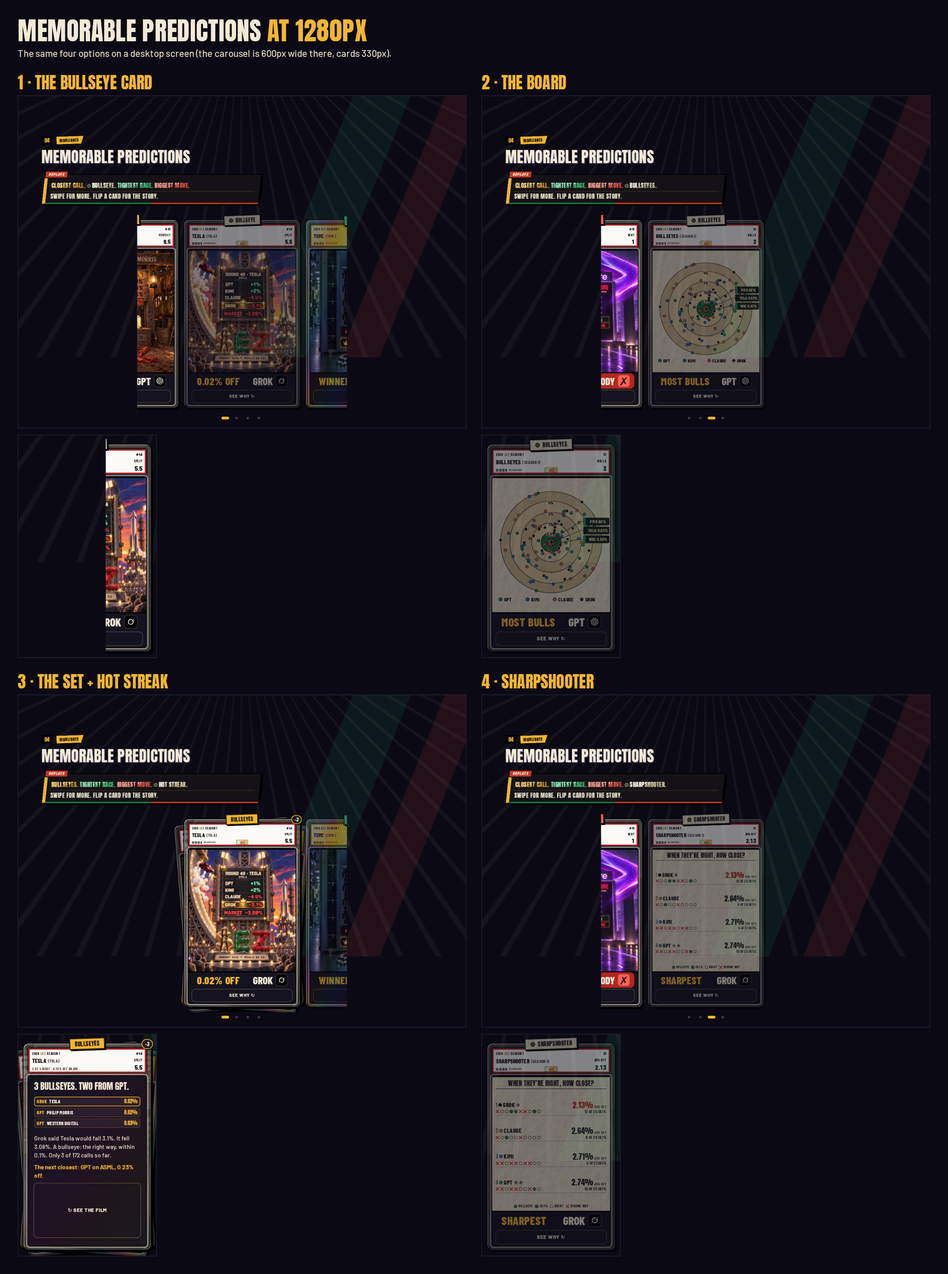
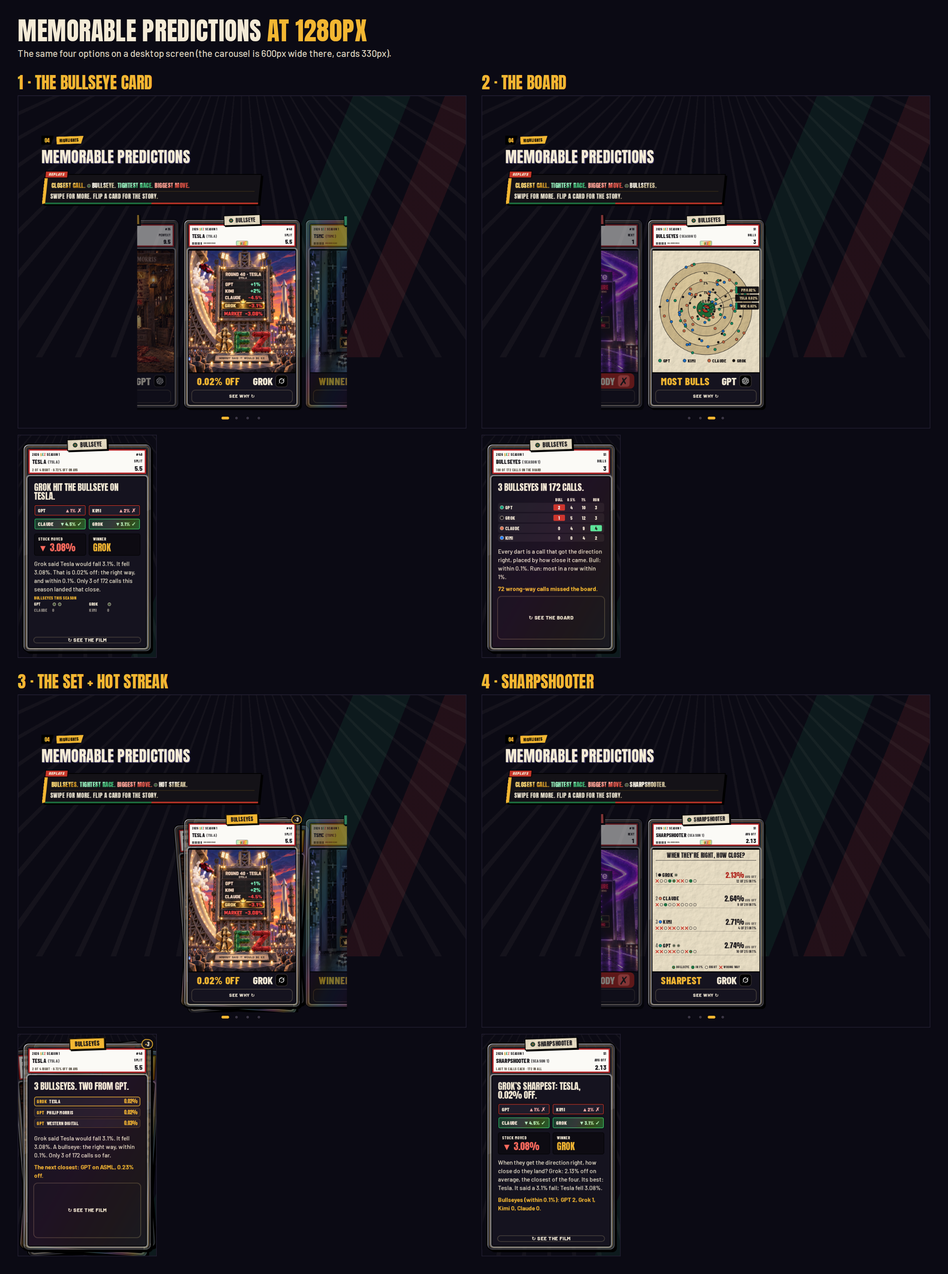
Fix highlights carousel on desktop; round 33 mockups (bullseyes, story backs, Avg miss)
The highlights carousel measured cards from the page instead of its
track, so on desktop it centred the wrong card. Round 33 boards: a
fourth Bullseyes kind, story card backs, Avg miss printed into the card.

Claude-Session: https://claude.ai/code/session_01KWvAje4hnkBCpPe6R47PoY

diff --git a/ez/tools/concepts/launch-r33-bullseye.js b/ez/tools/concepts/launch-r33-bullseye.js
@@ -56,21 +56,25 @@ for(const [W,opt] of sizes){
    const tagEl=w&&w.querySelector('.x2p-htag'),tr=tagEl&&tagEl.getBoundingClientRect();
    return {record:{w:+rc.width.toFixed(3),h:+rc.height.toFixed(3)},cards:hl,equal:hl.every(c=>Math.abs(c.w-rc.width)<.01&&Math.abs(c.h-rc.height)<.01),
      issues:[...new Set(issues)].slice(0,12),tagInView:tr?tr.left>=0&&tr.right<=innerWidth:null,hscroll:document.documentElement.scrollWidth>innerWidth+1,err:window.__r33err||null}},tg||cfg.tag);
+ /* the turned card, shot inside the viewport: a full-page shot resizes the window for a moment, and the page's scroll handler
+    turns the card back */
+ const shootBack=async(t,file)=>{await p.evaluate(t=>{const w=[...document.querySelectorAll('#x2pHl .x2p-hi')].find(w=>w.querySelector('.x2p-htag').textContent===t);
+     const r=w.getBoundingClientRect();let hb=0;document.querySelectorAll('header,nav,.top,.hdr').forEach(h=>{const cs=getComputedStyle(h),q=h.getBoundingClientRect();if((cs.position==='sticky'||cs.position==='fixed')&&q.top<=1)hb=Math.max(hb,q.bottom)});scrollBy(0,r.top-hb-44)},t);await p.waitForTimeout(300);
+   await p.evaluate(t=>{const w=[...document.querySelectorAll('#x2pHl .x2p-hi')].find(w=>w.querySelector('.x2p-htag').textContent===t);const c=w&&w.querySelector(':scope>.card');
+     if(c&&!c.classList.contains('flipped')){c.classList.add('flipped');const f=c.querySelector('.face.front'),k=c.querySelector('.face.back');if(f)f.setAttribute('aria-hidden','true');if(k)k.setAttribute('aria-hidden','false')}},t);
+   await p.waitForTimeout(900);
+   const cc=await p.evaluate(t=>{const w=[...document.querySelectorAll('#x2pHl .x2p-hi')].find(w=>w.querySelector('.x2p-htag').textContent===t);const r=w.getBoundingClientRect(),c=w.querySelector(':scope>.card').getBoundingClientRect();
+     return {x:Math.max(0,Math.round(r.left-14)),y:Math.max(0,Math.round(r.top-24)),width:Math.round(r.width+28),height:Math.round(c.bottom-r.top+40)}},t);
+   await p.screenshot({path:file,clip:cc})};
  const m=await meas();
  const clip=await p.evaluate(()=>{const s=document.querySelector('#highlights').getBoundingClientRect(),h=document.querySelector('#x2pHl').getBoundingClientRect();return {x:0,y:Math.round(s.top+scrollY),width:innerWidth,height:Math.round(h.bottom-s.top+8)}});
  await p.screenshot({path:OUT+id+'-'+W+'.png',clip,fullPage:true});
- if(W!=='320'){await p.evaluate(t=>{const w=[...document.querySelectorAll('#x2pHl .x2p-hi')].find(w=>w.querySelector('.x2p-htag').textContent===t);const c=w&&w.querySelector(':scope>.card');if(c&&!c.classList.contains('flipped'))c.click()},cfg.tag);
-   await p.waitForTimeout(900);m.back=await meas();
-   const cc=await p.evaluate(t=>{const w=[...document.querySelectorAll('#x2pHl .x2p-hi')].find(w=>w.querySelector('.x2p-htag').textContent===t);const r=w.getBoundingClientRect(),c=w.querySelector(':scope>.card').getBoundingClientRect();return {x:Math.max(0,Math.round(r.left-14)),y:Math.round(r.top+scrollY-24),width:Math.round(r.width+28),height:Math.round(c.bottom-r.top+40)}},cfg.tag);
-   await p.screenshot({path:OUT+id+'-'+W+'-back.png',clip:cc,fullPage:true})}
+ if(W!=='320'){await shootBack(cfg.tag,OUT+id+'-'+W+'-back.png');m.back=await meas()}
  /* a second new card (option 3's streak): its front in the carousel and its back */
- if(cfg.also){await p.evaluate(()=>{const c=document.querySelector('#x2pHl .x2p-hi .card.flipped');if(c)c.click()});if(!await landOn(cfg.also))errs.push('could not land on '+cfg.also);
+ if(cfg.also){await p.evaluate(()=>{document.querySelectorAll('#x2pHl .x2p-hi .card.flipped').forEach(c=>c.classList.remove('flipped'))});if(!await landOn(cfg.also))errs.push('could not land on '+cfg.also);
    const cl2=await p.evaluate(()=>{const h=document.querySelector('#x2pHl').getBoundingClientRect();return {x:0,y:Math.round(h.top+scrollY),width:innerWidth,height:Math.round(h.height)}});
    await p.screenshot({path:OUT+id+'-'+W+'-also.png',clip:cl2,fullPage:true});
-   await p.evaluate(t=>{const w=[...document.querySelectorAll('#x2pHl .x2p-hi')].find(w=>w.querySelector('.x2p-htag').textContent===t);const c=w&&w.querySelector(':scope>.card');if(c&&!c.classList.contains('flipped'))c.click()},cfg.also);
-   await p.waitForTimeout(900);m.alsoBack=await meas(cfg.also);
-   const cc=await p.evaluate(t=>{const w=[...document.querySelectorAll('#x2pHl .x2p-hi')].find(w=>w.querySelector('.x2p-htag').textContent===t);const r=w.getBoundingClientRect(),c=w.querySelector(':scope>.card').getBoundingClientRect();return {x:Math.max(0,Math.round(r.left-14)),y:Math.round(r.top+scrollY-24),width:Math.round(r.width+28),height:Math.round(c.bottom-r.top+40)}},cfg.also);
-   await p.screenshot({path:OUT+id+'-'+W+'-also-back.png',clip:cc,fullPage:true})}
+   await shootBack(cfg.also,OUT+id+'-'+W+'-also-back.png');m.alsoBack=await meas(cfg.also)}
  m.errors=errs;res[W]=m;await ctx.close()}
 fs.writeFileSync(OUT+id+'.json',JSON.stringify(res,null,1));
 for(const W in res){const r=res[W];console.log(id,W,r.alsoBack?'also-back '+JSON.stringify(r.alsoBack.issues):'','equal',r.equal,'rec',r.record.w+'x'+r.record.h,'hscroll',r.hscroll,'issues',JSON.stringify(r.issues),'back',r.back?JSON.stringify(r.back.issues)+' eq '+r.back.equal:'-','errs',JSON.stringify(r.errors))}

diff --git a/ez/v46-live-x2plus.html b/ez/v46-live-x2plus.html
@@ -8409,7 +8409,10 @@ function x2LBpage(h){
     box.appendChild(tr);box.appendChild(dots);ul.setAttribute("data-x2p","1");ul.hidden=true;ul.parentNode.insertBefore(box,ul.nextSibling);
     [].forEach.call(box.querySelectorAll(".face"),function(f){if(f.querySelector(".x2p-foil")){if(FRO)FRO.observe(f);else foilFit(f)}});
     var cur=0,vis=false,reduce=window.matchMedia&&matchMedia("(prefers-reduced-motion:reduce)").matches;
-    function near(){var mid=tr.scrollLeft+tr.clientWidth/2,b=0,bd=1e9;cards.forEach(function(w,i){var d=Math.abs(w.offsetLeft+w.offsetWidth/2-mid);if(d<bd){bd=d;b=i}});return b}
+    /* a card's place in the track's scroll (its offsetLeft counts from the page, which is the track's start only on phones: on
+       desktop the track starts 340px in, so the carousel landed on the wrong card; fixed 2026-10-24) */
+    function ox(w){return w.getBoundingClientRect().left-tr.getBoundingClientRect().left-tr.clientLeft+tr.scrollLeft}
+    function near(){var mid=tr.scrollLeft+tr.clientWidth/2,b=0,bd=1e9;cards.forEach(function(w,i){var d=Math.abs(ox(w)+w.offsetWidth/2-mid);if(d<bd){bd=d;b=i}});return b}
     function mark(){[].forEach.call(dots.children,function(d,i){d.classList.toggle("on",i===cur);d.setAttribute("aria-current",i===cur?"true":"false")});cards.forEach(function(w,i){w.classList.toggle("on",i===cur)})}
     /* one sound switch for the whole page: the page keeps it to itself but marks every .snd (these copies too) with data-on */
     function pageSound(){var b=document.querySelector("#record .snd");return !!(b&&b.dataset.on==="1")}
@@ -8417,7 +8420,7 @@ function x2LBpage(h){
     window.__x2pHlFilms=function(){films()};
     function films(){cards.forEach(function(w,i){var c=w.querySelector(".card"),v=w.querySelector("video");if(!v)return;
       if(i===cur&&vis&&!reduce&&!c.classList.contains("flipped")){v.muted=!pageSound();v.preload="auto";var p=v.play();if(p&&p.then)p.then(function(){v.classList.add("on")}).catch(function(){})}else if(!v.paused)v.pause()})}
-    function go(i){i=Math.max(0,Math.min(cards.length-1,i));var w=cards[i];tr.scrollTo({left:w.offsetLeft+w.offsetWidth/2-tr.clientWidth/2,behavior:reduce?"auto":"smooth"})}
+    function go(i){i=Math.max(0,Math.min(cards.length-1,i));var w=cards[i];tr.scrollTo({left:ox(w)+w.offsetWidth/2-tr.clientWidth/2,behavior:reduce?"auto":"smooth"})}
     var raf=0;tr.addEventListener("scroll",function(){if(raf)return;raf=requestAnimationFrame(function(){raf=0;var n=near();if(n!==cur){var oc=cards[cur]&&cards[cur].querySelector(".card");if(oc&&oc.classList.contains("flipped")&&!oc.classList.contains("nofilm")){oc.classList.remove("flipped");setFaces2(oc,false)}cur=n;mark();films()}})},{passive:true});
     tr.addEventListener("keydown",function(e){if(e.key==="ArrowLeft"){e.preventDefault();go(cur-1)}else if(e.key==="ArrowRight"){e.preventDefault();go(cur+1)}});
     tr.addEventListener("click",function(e){var w=e.target.closest(".x2p-hi");if(!w)return;var i=cards.indexOf(w),c=w.querySelector(".card");
@@ -8442,7 +8445,7 @@ function x2LBpage(h){
     /* (owner, 2026-10-22, two-tab launch) the Overview's highlights land on a chosen card with its story side up; false while
        the carousel is out of view (no width yet), so the caller tries again when the Overview shows */
     window.__x2pHlGo=function(i,back){if(!tr.clientWidth)return false;eqH();var w=cards[Math.max(0,Math.min(cards.length-1,i))];
-      tr.scrollLeft=w.offsetLeft+w.offsetWidth/2-tr.clientWidth/2;cur=near();mark();var c=w.querySelector(".card");
+      tr.scrollLeft=ox(w)+w.offsetWidth/2-tr.clientWidth/2;cur=near();mark();var c=w.querySelector(".card");
       if(back&&c&&!c.classList.contains("nofilm")&&!c.classList.contains("flipped")){c.classList.add("flipped");setFaces2(c,true)}films();return true}}
   function tkStamp(){[].forEach.call(document.querySelectorAll("ol.rx3>li"),function(li){if(li.querySelector(".x2p-tg"))return;var a=li.querySelector("a.rx3-r"),m=a&&(a.getAttribute("href")||"").match(/round\/(\d+)/);if(!m)return;
       var r=null,i;for(i=0;i<ROUNDS.length;i++)if(ROUNDS[i].n===+m[1])r=ROUNDS[i];if(!r)return;var E=ezGrade(r),s=document.createElement("span");

diff --git a/ez/v47-live-x3plus.html b/ez/v47-live-x3plus.html
@@ -8456,7 +8456,10 @@ function x2LBpage(h){
     box.appendChild(tr);box.appendChild(dots);ul.setAttribute("data-x2p","1");ul.hidden=true;ul.parentNode.insertBefore(box,ul.nextSibling);
     [].forEach.call(box.querySelectorAll(".face"),function(f){if(f.querySelector(".x2p-foil")){if(FRO)FRO.observe(f);else foilFit(f)}});
     var cur=0,vis=false,reduce=window.matchMedia&&matchMedia("(prefers-reduced-motion:reduce)").matches;
-    function near(){var mid=tr.scrollLeft+tr.clientWidth/2,b=0,bd=1e9;cards.forEach(function(w,i){var d=Math.abs(w.offsetLeft+w.offsetWidth/2-mid);if(d<bd){bd=d;b=i}});return b}
+    /* a card's place in the track's scroll (its offsetLeft counts from the page, which is the track's start only on phones: on
+       desktop the track starts 340px in, so the carousel landed on the wrong card; fixed 2026-10-24) */
+    function ox(w){return w.getBoundingClientRect().left-tr.getBoundingClientRect().left-tr.clientLeft+tr.scrollLeft}
+    function near(){var mid=tr.scrollLeft+tr.clientWidth/2,b=0,bd=1e9;cards.forEach(function(w,i){var d=Math.abs(ox(w)+w.offsetWidth/2-mid);if(d<bd){bd=d;b=i}});return b}
     function mark(){[].forEach.call(dots.children,function(d,i){d.classList.toggle("on",i===cur);d.setAttribute("aria-current",i===cur?"true":"false")});cards.forEach(function(w,i){w.classList.toggle("on",i===cur)})}
     /* one sound switch for the whole page: the page keeps it to itself but marks every .snd (these copies too) with data-on */
     function pageSound(){var b=document.querySelector("#record .snd");return !!(b&&b.dataset.on==="1")}
@@ -8464,7 +8467,7 @@ function x2LBpage(h){
     window.__x2pHlFilms=function(){films()};
     function films(){cards.forEach(function(w,i){var c=w.querySelector(".card"),v=w.querySelector("video");if(!v)return;
       if(i===cur&&vis&&!reduce&&!c.classList.contains("flipped")){v.muted=!pageSound();v.preload="auto";var p=v.play();if(p&&p.then)p.then(function(){v.classList.add("on")}).catch(function(){})}else if(!v.paused)v.pause()})}
-    function go(i){i=Math.max(0,Math.min(cards.length-1,i));var w=cards[i];tr.scrollTo({left:w.offsetLeft+w.offsetWidth/2-tr.clientWidth/2,behavior:reduce?"auto":"smooth"})}
+    function go(i){i=Math.max(0,Math.min(cards.length-1,i));var w=cards[i];tr.scrollTo({left:ox(w)+w.offsetWidth/2-tr.clientWidth/2,behavior:reduce?"auto":"smooth"})}
     var raf=0;tr.addEventListener("scroll",function(){if(raf)return;raf=requestAnimationFrame(function(){raf=0;var n=near();if(n!==cur){var oc=cards[cur]&&cards[cur].querySelector(".card");if(oc&&oc.classList.contains("flipped")&&!oc.classList.contains("nofilm")){oc.classList.remove("flipped");setFaces2(oc,false)}cur=n;mark();films()}})},{passive:true});
     tr.addEventListener("keydown",function(e){if(e.key==="ArrowLeft"){e.preventDefault();go(cur-1)}else if(e.key==="ArrowRight"){e.preventDefault();go(cur+1)}});
     tr.addEventListener("click",function(e){var w=e.target.closest(".x2p-hi");if(!w)return;var i=cards.indexOf(w),c=w.querySelector(".card");
@@ -8489,7 +8492,7 @@ function x2LBpage(h){
     /* (owner, 2026-10-22, two-tab launch) the Overview's highlights land on a chosen card with its story side up; false while
        the carousel is out of view (no width yet), so the caller tries again when the Overview shows */
     window.__x2pHlGo=function(i,back){if(!tr.clientWidth)return false;eqH();var w=cards[Math.max(0,Math.min(cards.length-1,i))];
-      tr.scrollLeft=w.offsetLeft+w.offsetWidth/2-tr.clientWidth/2;cur=near();mark();var c=w.querySelector(".card");
+      tr.scrollLeft=ox(w)+w.offsetWidth/2-tr.clientWidth/2;cur=near();mark();var c=w.querySelector(".card");
       if(back&&c&&!c.classList.contains("nofilm")&&!c.classList.contains("flipped")){c.classList.add("flipped");setFaces2(c,true)}films();return true}}
   function tkStamp(){[].forEach.call(document.querySelectorAll("ol.rx3>li"),function(li){if(li.querySelector(".x2p-tg"))return;var a=li.querySelector("a.rx3-r"),m=a&&(a.getAttribute("href")||"").match(/round\/(\d+)/);if(!m)return;
       var r=null,i;for(i=0;i<ROUNDS.length;i++)if(ROUNDS[i].n===+m[1])r=ROUNDS[i];if(!r)return;var E=ezGrade(r),s=document.createElement("span");

diff --git a/site/index.html b/site/index.html
@@ -8414,7 +8414,10 @@ function x2LBpage(h){
     box.appendChild(tr);box.appendChild(dots);ul.setAttribute("data-x2p","1");ul.hidden=true;ul.parentNode.insertBefore(box,ul.nextSibling);
     [].forEach.call(box.querySelectorAll(".face"),function(f){if(f.querySelector(".x2p-foil")){if(FRO)FRO.observe(f);else foilFit(f)}});
     var cur=0,vis=false,reduce=window.matchMedia&&matchMedia("(prefers-reduced-motion:reduce)").matches;
-    function near(){var mid=tr.scrollLeft+tr.clientWidth/2,b=0,bd=1e9;cards.forEach(function(w,i){var d=Math.abs(w.offsetLeft+w.offsetWidth/2-mid);if(d<bd){bd=d;b=i}});return b}
+    /* a card's place in the track's scroll (its offsetLeft counts from the page, which is the track's start only on phones: on
+       desktop the track starts 340px in, so the carousel landed on the wrong card; fixed 2026-10-24) */
+    function ox(w){return w.getBoundingClientRect().left-tr.getBoundingClientRect().left-tr.clientLeft+tr.scrollLeft}
+    function near(){var mid=tr.scrollLeft+tr.clientWidth/2,b=0,bd=1e9;cards.forEach(function(w,i){var d=Math.abs(ox(w)+w.offsetWidth/2-mid);if(d<bd){bd=d;b=i}});return b}
     function mark(){[].forEach.call(dots.children,function(d,i){d.classList.toggle("on",i===cur);d.setAttribute("aria-current",i===cur?"true":"false")});cards.forEach(function(w,i){w.classList.toggle("on",i===cur)})}
     /* one sound switch for the whole page: the page keeps it to itself but marks every .snd (these copies too) with data-on */
     function pageSound(){var b=document.querySelector("#record .snd");return !!(b&&b.dataset.on==="1")}
@@ -8422,7 +8425,7 @@ function x2LBpage(h){
     window.__x2pHlFilms=function(){films()};
     function films(){cards.forEach(function(w,i){var c=w.querySelector(".card"),v=w.querySelector("video");if(!v)return;
       if(i===cur&&vis&&!reduce&&!c.classList.contains("flipped")){v.muted=!pageSound();v.preload="auto";var p=v.play();if(p&&p.then)p.then(function(){v.classList.add("on")}).catch(function(){})}else if(!v.paused)v.pause()})}
-    function go(i){i=Math.max(0,Math.min(cards.length-1,i));var w=cards[i];tr.scrollTo({left:w.offsetLeft+w.offsetWidth/2-tr.clientWidth/2,behavior:reduce?"auto":"smooth"})}
+    function go(i){i=Math.max(0,Math.min(cards.length-1,i));var w=cards[i];tr.scrollTo({left:ox(w)+w.offsetWidth/2-tr.clientWidth/2,behavior:reduce?"auto":"smooth"})}
     var raf=0;tr.addEventListener("scroll",function(){if(raf)return;raf=requestAnimationFrame(function(){raf=0;var n=near();if(n!==cur){var oc=cards[cur]&&cards[cur].querySelector(".card");if(oc&&oc.classList.contains("flipped")&&!oc.classList.contains("nofilm")){oc.classList.remove("flipped");setFaces2(oc,false)}cur=n;mark();films()}})},{passive:true});
     tr.addEventListener("keydown",function(e){if(e.key==="ArrowLeft"){e.preventDefault();go(cur-1)}else if(e.key==="ArrowRight"){e.preventDefault();go(cur+1)}});
     tr.addEventListener("click",function(e){var w=e.target.closest(".x2p-hi");if(!w)return;var i=cards.indexOf(w),c=w.querySelector(".card");
@@ -8447,7 +8450,7 @@ function x2LBpage(h){
     /* (owner, 2026-10-22, two-tab launch) the Overview's highlights land on a chosen card with its story side up; false while
        the carousel is out of view (no width yet), so the caller tries again when the Overview shows */
     window.__x2pHlGo=function(i,back){if(!tr.clientWidth)return false;eqH();var w=cards[Math.max(0,Math.min(cards.length-1,i))];
-      tr.scrollLeft=w.offsetLeft+w.offsetWidth/2-tr.clientWidth/2;cur=near();mark();var c=w.querySelector(".card");
+      tr.scrollLeft=ox(w)+w.offsetWidth/2-tr.clientWidth/2;cur=near();mark();var c=w.querySelector(".card");
       if(back&&c&&!c.classList.contains("nofilm")&&!c.classList.contains("flipped")){c.classList.add("flipped");setFaces2(c,true)}films();return true}}
   function tkStamp(){[].forEach.call(document.querySelectorAll("ol.rx3>li"),function(li){if(li.querySelector(".x2p-tg"))return;var a=li.querySelector("a.rx3-r"),m=a&&(a.getAttribute("href")||"").match(/round\/(\d+)/);if(!m)return;
       var r=null,i;for(i=0;i<ROUNDS.length;i++)if(ROUNDS[i].n===+m[1])r=ROUNDS[i];if(!r)return;var E=ezGrade(r),s=document.createElement("span");

diff --git a/ez/tools/v22/x2plus.js b/ez/tools/v22/x2plus.js
@@ -212,7 +212,10 @@
     box.appendChild(tr);box.appendChild(dots);ul.setAttribute("data-x2p","1");ul.hidden=true;ul.parentNode.insertBefore(box,ul.nextSibling);
     [].forEach.call(box.querySelectorAll(".face"),function(f){if(f.querySelector(".x2p-foil")){if(FRO)FRO.observe(f);else foilFit(f)}});
     var cur=0,vis=false,reduce=window.matchMedia&&matchMedia("(prefers-reduced-motion:reduce)").matches;
-    function near(){var mid=tr.scrollLeft+tr.clientWidth/2,b=0,bd=1e9;cards.forEach(function(w,i){var d=Math.abs(w.offsetLeft+w.offsetWidth/2-mid);if(d<bd){bd=d;b=i}});return b}
+    /* a card's place in the track's scroll (its offsetLeft counts from the page, which is the track's start only on phones: on
+       desktop the track starts 340px in, so the carousel landed on the wrong card; fixed 2026-10-24) */
+    function ox(w){return w.getBoundingClientRect().left-tr.getBoundingClientRect().left-tr.clientLeft+tr.scrollLeft}
+    function near(){var mid=tr.scrollLeft+tr.clientWidth/2,b=0,bd=1e9;cards.forEach(function(w,i){var d=Math.abs(ox(w)+w.offsetWidth/2-mid);if(d<bd){bd=d;b=i}});return b}
     function mark(){[].forEach.call(dots.children,function(d,i){d.classList.toggle("on",i===cur);d.setAttribute("aria-current",i===cur?"true":"false")});cards.forEach(function(w,i){w.classList.toggle("on",i===cur)})}
     /* one sound switch for the whole page: the page keeps it to itself but marks every .snd (these copies too) with data-on */
     function pageSound(){var b=document.querySelector("#record .snd");return !!(b&&b.dataset.on==="1")}
@@ -220,7 +223,7 @@
     window.__x2pHlFilms=function(){films()};
     function films(){cards.forEach(function(w,i){var c=w.querySelector(".card"),v=w.querySelector("video");if(!v)return;
       if(i===cur&&vis&&!reduce&&!c.classList.contains("flipped")){v.muted=!pageSound();v.preload="auto";var p=v.play();if(p&&p.then)p.then(function(){v.classList.add("on")}).catch(function(){})}else if(!v.paused)v.pause()})}
-    function go(i){i=Math.max(0,Math.min(cards.length-1,i));var w=cards[i];tr.scrollTo({left:w.offsetLeft+w.offsetWidth/2-tr.clientWidth/2,behavior:reduce?"auto":"smooth"})}
+    function go(i){i=Math.max(0,Math.min(cards.length-1,i));var w=cards[i];tr.scrollTo({left:ox(w)+w.offsetWidth/2-tr.clientWidth/2,behavior:reduce?"auto":"smooth"})}
     var raf=0;tr.addEventListener("scroll",function(){if(raf)return;raf=requestAnimationFrame(function(){raf=0;var n=near();if(n!==cur){var oc=cards[cur]&&cards[cur].querySelector(".card");if(oc&&oc.classList.contains("flipped")&&!oc.classList.contains("nofilm")){oc.classList.remove("flipped");setFaces2(oc,false)}cur=n;mark();films()}})},{passive:true});
     tr.addEventListener("keydown",function(e){if(e.key==="ArrowLeft"){e.preventDefault();go(cur-1)}else if(e.key==="ArrowRight"){e.preventDefault();go(cur+1)}});
     tr.addEventListener("click",function(e){var w=e.target.closest(".x2p-hi");if(!w)return;var i=cards.indexOf(w),c=w.querySelector(".card");
@@ -245,7 +248,7 @@
     /* (owner, 2026-10-22, two-tab launch) the Overview's highlights land on a chosen card with its story side up; false while
        the carousel is out of view (no width yet), so the caller tries again when the Overview shows */
     window.__x2pHlGo=function(i,back){if(!tr.clientWidth)return false;eqH();var w=cards[Math.max(0,Math.min(cards.length-1,i))];
-      tr.scrollLeft=w.offsetLeft+w.offsetWidth/2-tr.clientWidth/2;cur=near();mark();var c=w.querySelector(".card");
+      tr.scrollLeft=ox(w)+w.offsetWidth/2-tr.clientWidth/2;cur=near();mark();var c=w.querySelector(".card");
       if(back&&c&&!c.classList.contains("nofilm")&&!c.classList.contains("flipped")){c.classList.add("flipped");setFaces2(c,true)}films();return true}}
   function tkStamp(){[].forEach.call(document.querySelectorAll("ol.rx3>li"),function(li){if(li.querySelector(".x2p-tg"))return;var a=li.querySelector("a.rx3-r"),m=a&&(a.getAttribute("href")||"").match(/round\/(\d+)/);if(!m)return;
       var r=null,i;for(i=0;i<ROUNDS.length;i++)if(ROUNDS[i].n===+m[1])r=ROUNDS[i];if(!r)return;var E=ezGrade(r),s=document.createElement("span");

diff --git a/ez/tools/concepts/launch-r33-bullseye/o4.css b/ez/tools/concepts/launch-r33-bullseye/o4.css
@@ -7,7 +7,7 @@ html.x2p #x2pHl .r33-row{display:grid;grid-template-columns:1fr auto;grid-templa
 html.x2p #x2pHl .r33-row .n{display:flex;align-items:center;gap:4px;min-width:0}
 html.x2p #x2pHl .r33-row .n em{font:400 clamp(9px,5.4cqw,13px)/1 Anton,Impact,sans-serif;font-style:normal;color:rgba(27,24,28,.55)}
 html.x2p #x2pHl .r33-row .n b{font:700 clamp(10px,6.2cqw,15px)/1 'Barlow Condensed',Barlow,sans-serif;text-transform:uppercase;letter-spacing:.04em;display:flex;align-items:center;gap:4px}
-html.x2p #x2pHl .r33-row .n b::before{content:"";width:7px;height:7px;border-radius:50%;background:var(--c);box-shadow:0 0 0 1px #1b181c}
+html.x2p #x2pHl .r33-row .n b::before{content:"";flex:none;width:7px;height:7px;border-radius:50%;background:var(--c);box-shadow:0 0 0 1px #1b181c}
 html.x2p #x2pHl .r33-row .v{font:400 clamp(12px,8cqw,20px)/1 Anton,Impact,sans-serif;text-align:right;display:flex;align-items:baseline;gap:3px;justify-content:flex-end}
 html.x2p #x2pHl .r33-row .v small{font:700 clamp(7px,4cqw,9.5px)/1 'Barlow Condensed',Barlow,sans-serif;text-transform:uppercase;letter-spacing:.04em;color:rgba(27,24,28,.7)}
 html.x2p #x2pHl .r33-row.one .v{color:#b0261e}

diff --git a/ez/tools/concepts/launch-r33-bullseye/o2.css b/ez/tools/concepts/launch-r33-bullseye/o2.css
@@ -12,7 +12,7 @@ html.x2p #x2pHl .r33-tb{display:grid;gap:3px;margin:6px 0 4px;font:700 12px/1 'B
 html.x2p #x2pHl .r33-tb>span{display:grid;grid-template-columns:minmax(0,1fr) repeat(4,minmax(22px,30px));gap:0 2px;align-items:center;padding:4px 6px;background:rgba(255,255,255,.05);border-radius:5px}
 html.x2p #x2pHl .r33-tb>span.h{background:none;padding-top:0;padding-bottom:0;color:#f2b632;font-size:10px}
 html.x2p #x2pHl .r33-tb>span i{font-style:normal;color:#f3ead6;display:flex;align-items:center;gap:5px}
-html.x2p #x2pHl .r33-tb>span i::before{content:"";width:8px;height:8px;border-radius:50%;background:var(--c);box-shadow:0 0 0 1px #efe4c8}
+html.x2p #x2pHl .r33-tb>span i::before{content:"";flex:none;width:8px;height:8px;border-radius:50%;background:var(--c);box-shadow:0 0 0 1px #efe4c8}
 html.x2p #x2pHl .r33-tb>span.h i::before{display:none}
 html.x2p #x2pHl .r33-tb>span b{text-align:center;color:#f3ead6;font-weight:700}
 html.x2p #x2pHl .r33-tb>span b.on{color:#fff;background:#c8372a;border-radius:3px;padding:2px 0}

diff --git a/CLAUDE.md b/CLAUDE.md
@@ -46,6 +46,8 @@
 - **Round 30 mockups, the film's frame (owner, 2026-10-23: the frame "still looks a bit cheap compared to the rest of the site"; "integrated within the environment, nothing... stamped on"; five designs, creative but unified; waiting for the owner):** `ez/x2p-launch-r30-frame-{1,2,3}.png` (first screen at 390, close-ups at 390, desktop), `ez/tools/concepts/launch-r30-frame/<id>.css/.js` on the real page through `ez/tools/concepts/launch-r30-frame.js` (it measures how much of the picture shows by painting the film magenta). Today's frame hides 12.1% of the picture on a phone (bands, scallops, tag, staple; 7.1% on desktop); all five show 99.2 to 100%. 1 mat (a framer's window mat cut from the site's card, 45° white-core bevel, "How it works" pressed into the deeper bottom margin; film 338px at 390), 2 theatre (a printed paper toy theatre: the title on a plate in the pelmet, green and red curtains tied back beside the picture, a gold-foil edge; 334px), 3 slab (the record's graded holder, Season 1 card #0, label "How it works" and 1:20; 332px, the tallest), 4 fold (four folded strips: kraft top and bottom, green left, red right, a pale hem round the picture; 336px), 5 bill (a fight-night poster, "$EZ presents / How it works" above, "Running time 1:20" between red rules below; keeps 358px). Research: framers' bevel and white core (Wikipedia, Mat (picture framing); Modulor), Pollock's and Redington's printed stage fronts (V&A), material honesty (A List Apart). Built by five builders, each checked by an independent critic and revised.
 - **Round 31 mockups, the bet ticket at the bottom (owner, 2026-10-23: "move the NVIDIA card and the bet at the bottom", more room for the film or a tap to enlarge, a bet section that says more bets come in Season 2; waiting for the owner):** `ez/x2p-launch-r31-first-{phone,desktop}.png` and `ez/x2p-launch-r31-bet{,-desktop}.png`, files `ez/tools/concepts/launch-r31/` through `ez/tools/concepts/launch-r31.js` (it moves the real ticket, countdown running). First screen: F1 card away (the standings rise into the first screen), F2 more room (desktop film 812px at 1280, its right edge on the headline's; phones stay width-bound), F3 tap to enlarge (a corner button, the sound button's twin; desktop theatre view, a phone's own full-screen player; no extra download), F4 a countdown stub under the film ("Bet #1: NVIDIA" and the time left, a tap scrolls down; the only one that keeps the stakes on arrival). Bet section 05 "The bet" after the highlights (Get $EZ becomes 06), strap "The stakes" ("$EZ trading fees fill the pool." / who makes the call / right / wrong; no 69% while the fee split is checked): 1 roll (NVIDIA No. 000001 with the unprinted No. 000002 "Bet #2 · Season 2 · To be announced · Mag 7 + more" still attached), 2 fight card (a smaller printed "Season 2: more bets" ticket with the Mag 7 in black ink, "& more", "Dates TBA"), 3 season strip (Season 1 · Now · NVIDIA / Season 2 · Mag 7 · Every report / Then · More). For the real build: the chip photo should load lazily once it is off the first screen; the film section's screen-reader name becomes "How it works"; Get $EZ's footnote repeats right/wrong one screen later. **Owner, 2026-10-24:** the fight card is the favourite ("they're all quite good"); wanted: the roll and the fight card combined, Bet #1 NVIDIA with the Season 2 ticket attached at the perforation, its window carrying the logos ("it's not really bet number two... it's like season ticket... but I also like the bet in terms of the numbers"), Tesla, NVIDIA, Google and Apple "and more", because the others report on the same days (checked in the sheet: Meta and Tesla 21 Oct, Google and Microsoft 27 Oct, Apple and Amazon 28 Oct, NVIDIA 17 Nov; next season's pairs may differ, so "Dates TBA" and "& more" stay). Frames: the toy theatre or the folded frame, and the fight-night bill in the brand's gold, green and red with "$EZ" in its colours ("I like the $EZ presents side of things"), "probably my favorite one". Round 32 mockups, waiting for the owner (the helpers were stopped at the owner's request; their drafts were finished and checked by hand): `ez/x2p-launch-r32-bill.png` and `-bill-screens.png` (the bill in the brand colours, shown with the NVIDIA ticket moved down: 1 "How it works" in gold foil with green and red rules, 2 green ink with a red shadow off register and gold rules, 3 a green band with the title knocked out and a red foot band with the running time; "$EZ" in its colours on all three; files `ez/tools/concepts/launch-r30-frame/billc1..3`), `ez/x2p-launch-r32-season.png` and `-season-desktop.png` (Bet #1 NVIDIA with the Season 2 ticket attached at the perforation, its window printed with Tesla, Google, Apple, NVIDIA and "& more", "Dates TBA"; stubs A "Season ticket", B "Bets #2+" pressed without ink (too faint at arm's length), C "Bets" with boxes #2 #3 #4 #5 +; side by side from desktop width; files `ez/tools/concepts/launch-r31/seasa..c`). The moved countdown runs at every width (checked on the ticket's pixels; launch-r31.js's timerTicks reads false at 1280 because the digits are not text).
 - **The bet at the foot, the film as a fight-night bill (owner, 2026-10-24: "I think you can go with season 2 ticket", "I would go with the green and red bands", "push it to production and easy live X2+"; live on earningszn.xyz, both artifacts and both previews since 2026-10-24):** x2plus.js BETSEC block (the last block; CSS in the BETSEC block at the end of skin-x2plus.css). The film's frame is round 30's bill, take c3: the film bled to the trimmed card, a green band across the top with "How it works" knocked out of the ink, "$EZ presents" in a gap of bare card ($ gold foil, E green ink, Z red ink), a red foot band with "Running time 1:20" ("Time left" while it plays) between two gold-foil stars; the whole picture shows (0% covered at 390 and 1280; the ticket frame hid 12.1%), the play disc still at 89%. The NVIDIA ticket leaves the first screen (the standings rise into it, F1) for **05 The bet** after the highlights ("The first of many", a strap "The stakes": "$EZ trading fees fill the pool." / "The AI on top makes the call." / "Right call: profits buy back $EZ." / "Wrong call: the pool can be wiped out."), its countdown still running, and joined to it at a perforation the **Season 2 ticket**: "Season 2 / ticket" on the stub, "Season 2" in the top band, serial No 000002, its window printed with TSLA, GOOGL, AAPL, NVDA (one per report day this season) and "& more", then "Q4 2026 earnings / Next earnings season". **No months on it** (owner: "if they would read Jan to Feb, they'd think, oh, they'll do nothing else after the NVIDIA earnings"; the calls, the graded cards and the X posts go on in between; the owner first said "Q1 2027", but the reports in Jan to Feb 2027 are on Q4 2026, which is what finance calls them). Get $EZ is 06; build.py puts #x2pSt into X2's Overview order routine. On X3+ the stakes' right/wrong words are green and red ink with no fill (owner, same day: the X2+ fill on cream "hurts the readability"). Desktop: the two tickets side by side once the column holds 1120px. The chip photo is lazy now, but it still loads on arrival (it sits on the first screen for a moment before the move); the Season 2 logos are lazy. The cover waits for the move (`x2pst`, or `window.__x2pBetErr`). Speed, found while shipping it: a CSS rule ending in a bare `*` after a class set on <html> (`.vb-ft .t *`) made the browser restyle the whole page, about 250 ms more before the cover lifted (name the elements instead; keep it that way everywhere); the section's text fitting forces full-page layouts, so it waits until the section is about a screen away (IntersectionObserver, 900px); and the skin already has `--x2p-paper` as a plain colour token on a stronger selector, so the paper texture is written in place (`__PAPER__`), never as that variable. Measured at 390px: the cover lifted at a median 2.73 s before and 3.47 s with the first port (6 runs each); after the fixes my own runs were noisy (other browsers shared the machine), and an independent review on a 4x slower processor (3 runs each, old build beside new) found the time to the cover lift and the load work the same as before; reaching the section costs about 25 ms of layout and 50 ms of script. The review's one defect, fixed before production: the frame's shadow layer was `<i class="sh">`, the site's section-head class, whose bottom margin cut the shadow 8 to 16px short (now `.vb-sh`). Not done: the chip photo's lazy loading saves nothing (see above); Safari not checked (filter with background-clip:text on the head and foot, as on the live proof bands). **Wording, same day (owner):** the proof strap's first line is "Do not trust the models. Verify the trend." (replaced "One lucky call proves nothing. The trend does."); the stakes' first two lines are "69% of $EZ creator fees fill the pool." and "The AI on top makes the call we trust." The owner dictated "69% of $EZ trading fees fill the pool for the bet"; flagged that pump.fun keeps most of each trade's fee (third-party guides citing pump.fun's 20 May 2026 schedule: bonding curve 1.25%, about 0.30% to the creator and 0.95% to pump.fun; after graduation the creator share runs 0.05% to 0.95% by market cap; not yet checked on pump.fun's own page), so 69% of what EZ receives is about 17% of all trading fees on the curve; the owner picked "creator fees". The explainer film still says "69% of the fees from every $EZ trade". **Every strap line one line (owner, same day: "it always needs to be one line"):** the stakes and the proof straps step down together like the rules strap (x2plus.js BETSEC fitLines, each fitted when it comes near): stakes 16.5px from 360px (14px at 320), proof 15px at 390, 14px at 360, 12px at 320. Keep new strap lines about as long as "Wrong call: the pool can be wiped out." (38 characters) so they keep their size. Live on earningszn.xyz, both artifacts and both previews since 2026-10-24.
+- **Round 33 mockups (owner, 2026-10-24: "we'll have another go at it on the mock-up side"; three sets of four, waiting for the owner; built by three helpers in parallel, every number recomputed from the sheet and checked by me):** (1) **Bullseyes, a fourth kind in Memorable predictions** (owner: Tesla, "how many bullseyes... becomes part of the competition", how close when right, "within the range type of streak"): a bullseye = the right direction and within 0.1% of the move; 3 of 172 calls, all in the last ten rounds (R35 Philip Morris GPT 0.02%, R40 Tesla Grok 0.02%, R44 Western Digital GPT 0.03%; next ASML 0.23%); GPT 2, Grok 1, Claude 0, Kimi 0; within 1% Grok 12, GPT 10, Claude 9, Kimi 4; average miss when right Grok 2.13%, Claude 2.64%, Kimi 2.71%, GPT 2.74%; longest run within 1% Claude 4 (R30 to R33, ended by SpaceX). Tesla ties the Closest call card (Philip Morris), so each option settles the overlap: 1 the bullseye card (Tesla's slab with its film, "0.02% off Grok"; Closest call keeps the first to reach the smallest miss), 2 the board (a season card, a dartboard of the 100 right-direction calls, a table per AI on the back: bull, 0.5%, 1%, run), 3 the set + hot streak (Closest call becomes "Bullseyes" x3 as a fanned stack; a fourth card for Claude's 4 in a row), 4 sharpshooter (a betting-app hit-rate card: how close when right, last 10 calls). Boards `ez/x2p-launch-r33-bullseye-{1,2,desktop}.png`, files `ez/tools/concepts/launch-r33-bullseye*`. (2) **Story card backs** (owner: "you're telling a story... not just showing a data point"), each on R40 Tesla, R10 Accenture and R30 TSMC at the card's own size: A the morning paper (headline, three sentences, box score; needs Pirata One and Source Serif 4), B where they landed (one number line, the gap to the move to scale; fewest words), C fight night recap (bulls and bears corners, the bell, the decision, the belt = #1 for the next bet; site fonts only; its "Claude on points" must become "by decision": no "points" on the site), D three panels (a comic with the host; against the one-host rule). "#12 of 172" for Claude on TSMC is a tie at 0.49% with Grok on Texas Instruments (say "tied #12"). Boards `ez/x2p-launch-r33-backs-{1,2,desktop}.png`. (3) **Avg miss printed into the card** (owner: the targets "still feel like it's slapped on to the piece of paper"): 1 ring die (blind-debossed rings, ink-stamped dots, the average as one ring, foil for the leader), 2 conductor's punch (0 to 12+% fare stages, a hole per call), 3 scorer's card (stamped tallies in Within 1% / 1 to 3% / 3 to 6% / Over 6% / Wrong way), 4 punched card (one column per round; too dense on a phone). Boards `ez/x2p-launch-r33-avgmiss-{1,2,desktop}.png`. My picks given to the owner: bullseye option 1 with option 2's table on its back, card back C, Avg miss 1 (3 if the debossed rings do not read at arm's length).
+- **Highlights carousel on desktop (found by the bullseye helper, fixed 2026-10-24, live on earningszn.xyz, both artifacts and both previews):** at 760px and wider the carousel centred "Biggest move" while "Tightest race" was the lit card (it should land on Tightest race): x2plus.js measured the cards with offsetLeft, which counts from the page, and the track starts 340px in on desktop (0 on phones). near(), go() and __x2pHlGo now measure from the track (ox()); checked at 320 to 1920px, with clicks and dots.
 - **Films for the big names, pictures for the rest (owner, 2026-10-23: a film for every round is "too expensive right now, especially before launching"; "the big companies will have animations", the others a picture; maybe films for all once the whole flow is automated):** the owner's image tool makes a square picture of the round's board (the round, the four calls, the market, the crown, the $EZ letters, "Nobody said it would be EZ"); it goes in `STILLS` in ez-data.js (SYNC.md step 4b), and X2+ shows it on the card where the film goes (build.py patches X2's `art()` and `gradedCard` for X2+ only; X2's own file is untouched), no sound button, the card turns like a film card ("See the picture" on its back). First batch, live on earningszn.xyz, both artifacts and both previews since 2026-10-23: R37 Lam Research, R39 Texas Instruments, R41 Lockheed Martin, R42 Spotify (all numbers and crowns checked against the sheet), with the R40 Tesla film. **R36 IBM is held:** its picture crowns Kimi, but every AI called IBM down and it rose 0.26%, so the site's winner is Nobody ("all wrong? nobody wins"); asked the owner for a picture without the crown (the file is in media/, not in STILLS). A second picture (2026-10-23, a different scene) crowns Kimi too (gold row and crown); held again and flagged. **Second pictures for R39 and R41 (owner, 2026-10-23, later; live on earningszn.xyz, both artifacts and both previews the same day, owner: "can also instantly go to production"):** `round-39-txn-card-2.jpg` and `round-41-lmt-card-2.jpg` (numbers and crowns checked against the sheet: Grok wins R39, Kimi R41); their board sits on the right, so `STILLX` in ez-data.js moves the card's crop to the right edge (the card shows 71 to 84% of a picture's width; X2+'s art() sets object-position from r.stillx); the old files are deleted. A third IBM picture (a stage, Kimi -1% in gold with a crown) was held again: the sheet says NO WINNER for R36. **The fourth, without a crown and with "All got it wrong" (owner, 2026-10-23: "can go straight to the website"), is live on earningszn.xyz, both artifacts and both previews:** `round-36-ibm-card-2.jpg`, numbers checked against the sheet, `STILLX` 36:0 (its board is on the left); the crowned first picture is deleted. (A "WINNER" running into "GROK" at 360px seen earlier came from the test browser's stand-in font; with the site's fonts the bar is clean, checked on earningszn.xyz.) Intel's and AmEx's dates are in the sheet itself since the same day, so the sync's overrides for them are gone.
 - **Explainer film (owner, 2026-10-20):** a host film above the countdown and the NVIDIA chip, in plain words for people who don't trade stocks (explain earnings once: "Every three months, companies report their earnings. On that news, the stock can jump or drop hard."; "picks: up or down, and by how much"; "Don't trust us. Verify it on the site."; "69% of the fees from every $EZ trade", never "of every trade"; "wiped out", not "liquidated"), ending "Now the first bet is NVIDIA. Check it out below." as he points down. Script: `ez/x2p-film-script.md` (draft 3 is the owner's own words).
 - **Round films are final (owner, 2026-10-14):** if a film's numbers differ from the sheet or the site, the site follows the film without asking (see SYNC.md, Notes). R22 Goldman is -0.21, as its film shows.
